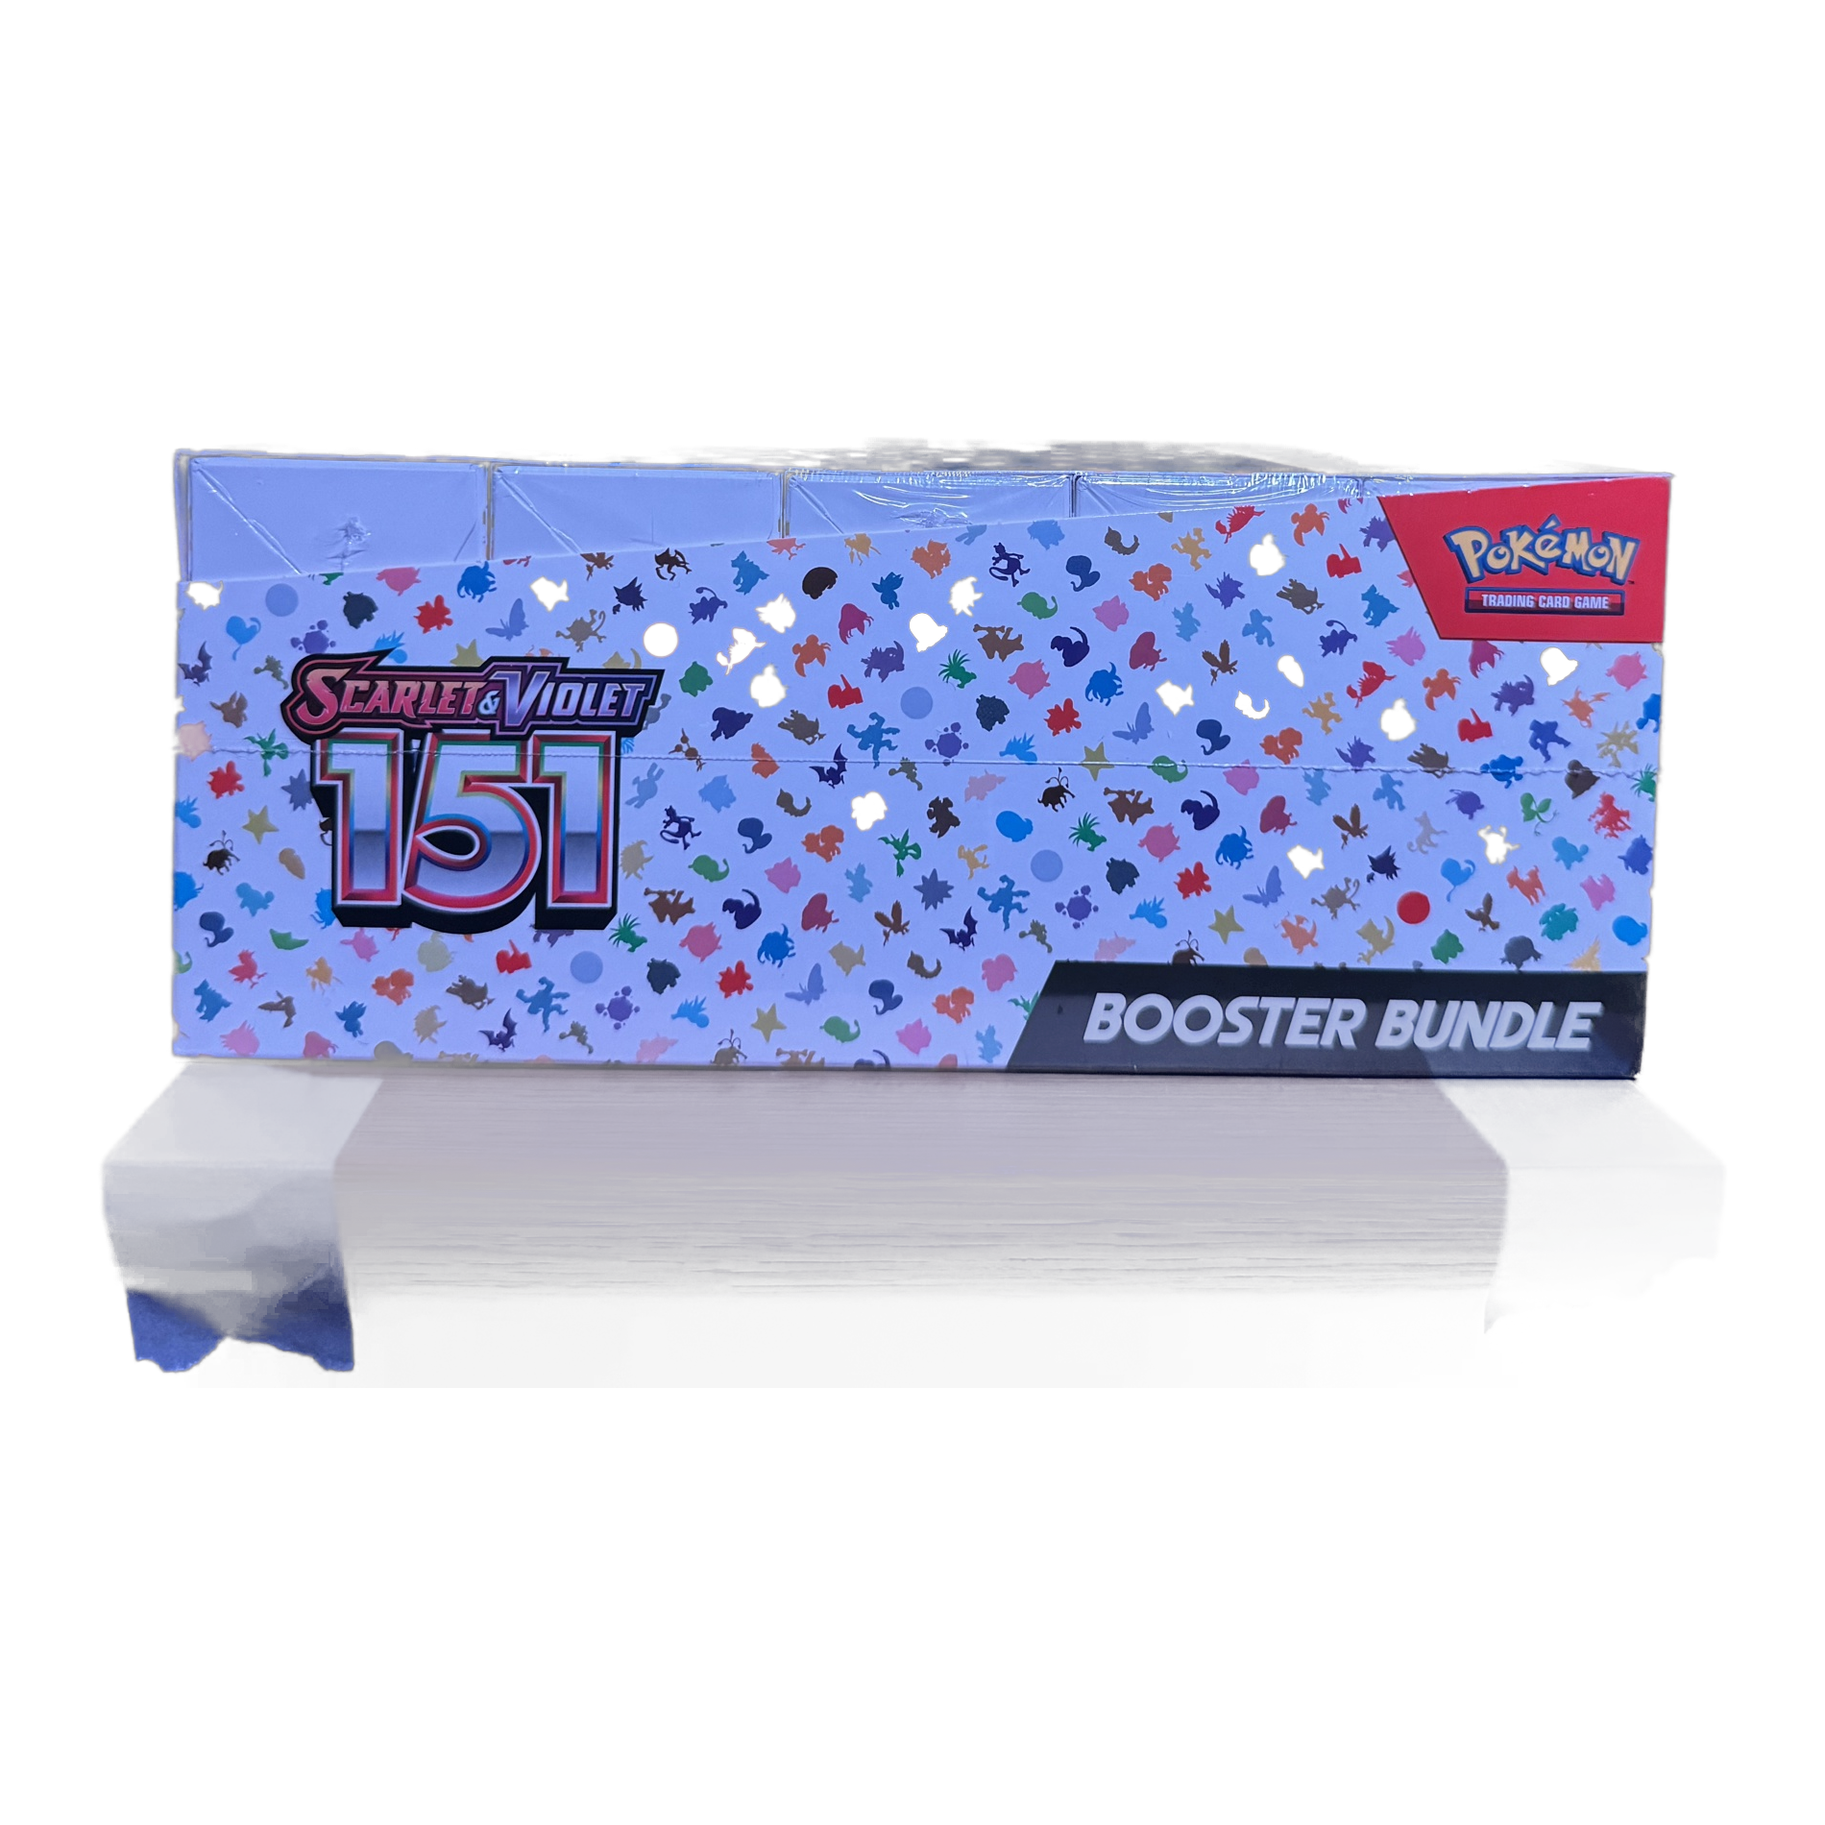
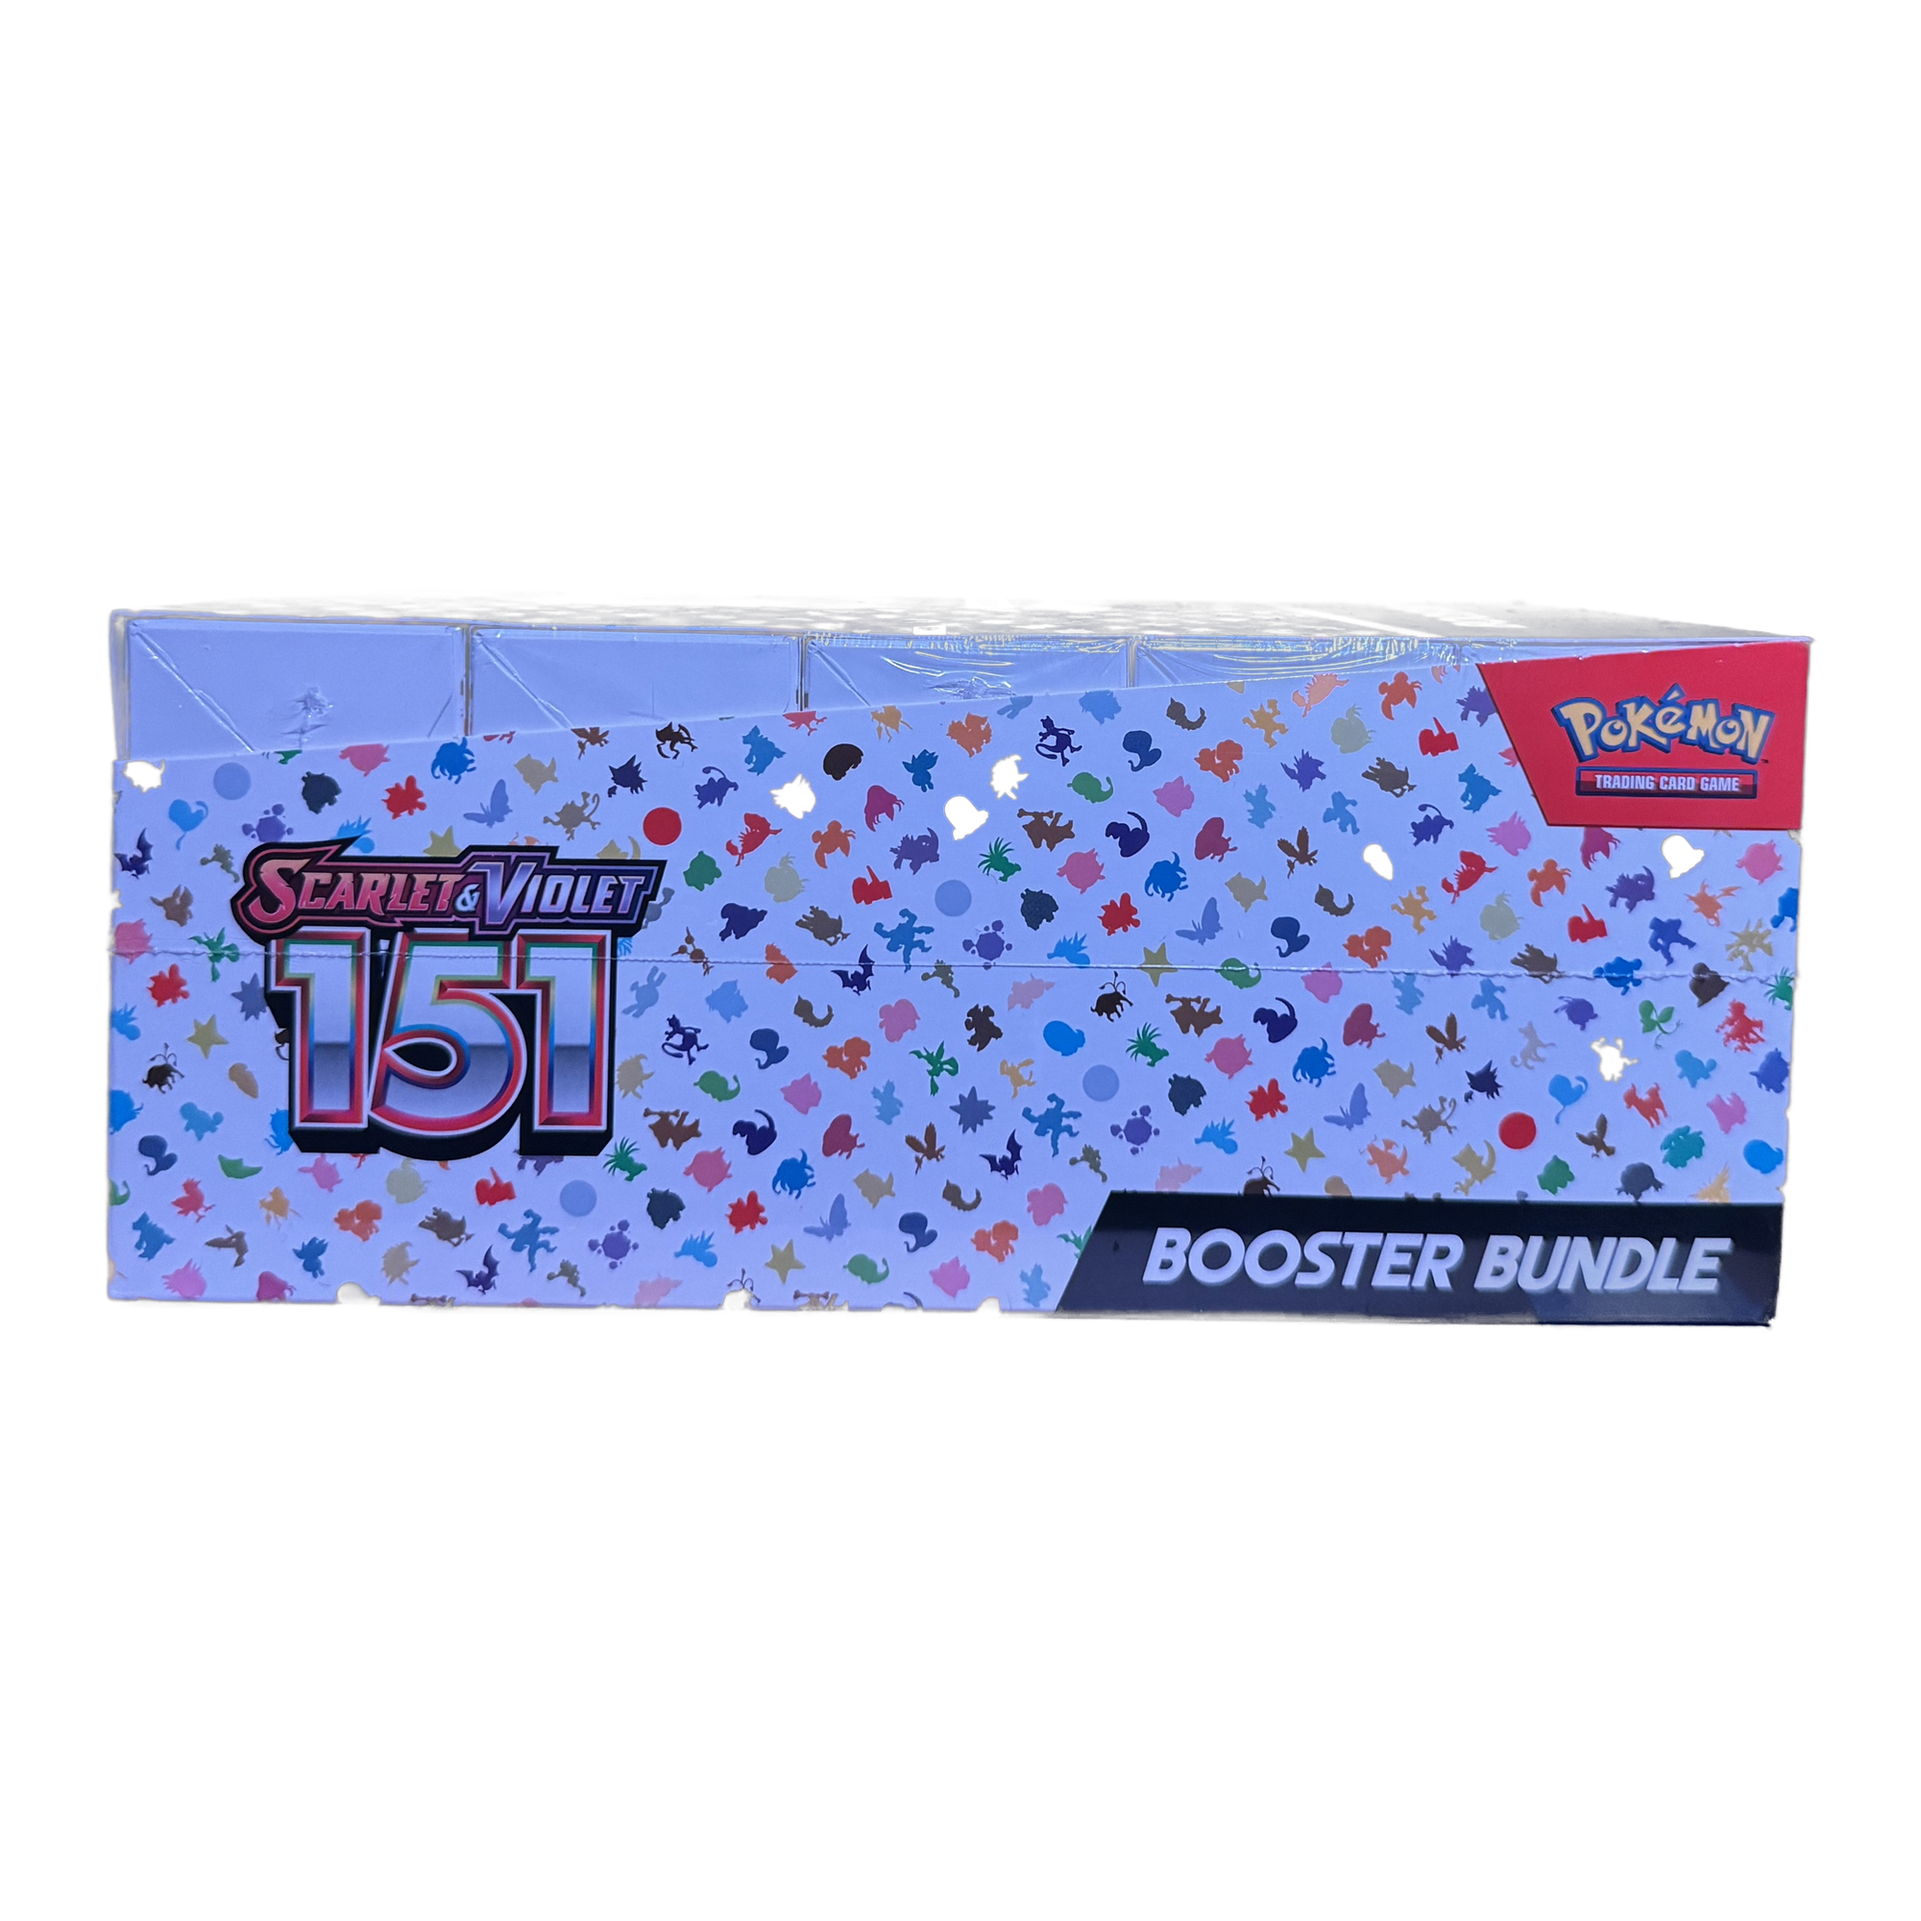
De tafelrand onder de doos wegsnijden
Bram zet de doos op de rand van zijn tafel en plakt hem vast met
schilderstape. Bij een liggende doos pakte rembg die tafelrand mee: in het
sjabloon stond de doos dan op een plak hout met twee stukken tape eraan.

Wat het verraadt is niet de helderheid en niet de kleur. Ik heb ze allebei
gemeten en ze scheiden een witte doos niet van licht hout; de foto's zijn
bovendien koel geschoten, zodat zelfs het hout blauwer uitvalt dan rood. Wat
wel scheidt is de breedte, en dan andersom dan je zou denken: het tafelblad
steekt zijwaarts buiten de doos uit. Bij het 151-display zit de doos op 0,99
tot 1,00 van zijn kernbreedte en loopt het masker vanaf de tafel op naar 1,03,
om bij de voorrand terug te zakken naar 0,94 en bij de tape naar 0,15.

Alleen op verbreding snijden, nooit op versmalling. Dat is een hard geleerde
les: de eerste versie sneed ook bij afwijking naar beneden en knipte 736 van
de 1635 rijen van de staande doos af. Een staande doos loopt door perspectief
taps toe en zit onderaan op 0,96 van zijn kernbreedte.

Gemeten na afloop: het liggende display 964 naar 703 rijen, de staande doos
onveranderd op 1635.

Onderweg ook nagekeken of de blauwzweem uit mijn omzetting kwam. Dat is niet
zo: de HEIC draagt een Display P3-profiel, maar netjes naar sRGB omzetten
verschuift R-B van -97 naar -109 en maakt het dus niet beter. De opname is zo
geschoten.

Claude-Session: https://claude.ai/code/session_01WAr9BuuVNs3MhH58LKB4bC

diff --git a/brams-collectibles/sjablonen/uitsnijden.py b/brams-collectibles/sjablonen/uitsnijden.py
@@ -215,6 +215,58 @@ def gaten_vullen(m):
     return (~buiten).astype(np.uint8)
 
 
+def voetstuk_weg(a, speling=0.012, houvast=0.03):
+    """De tafelrand onder de doos wegsnijden.
+
+    Bram zet de doos op de rand van zijn tafel en plakt hem vast met
+    schilderstape. Bij een liggende doos pakt rembg die tafelrand mee: in het
+    sjabloon staat de doos dan op een plak hout met twee stukken tape eraan.
+
+    Het signaal is niet de helderheid en niet de kleur — ik heb ze allebei
+    gemeten en ze scheiden een witte doos niet van licht hout. Wat wel
+    scheidt is de breedte, maar dan andersom dan je zou denken: het tafelblad
+    steekt zijwaarts *buiten* de doos uit. Bij het 151-display zit de doos op
+    0,99 tot 1,00 van zijn kernbreedte en loopt het masker vanaf de tafel op
+    naar 1,03, om bij de voorrand terug te zakken naar 0,94 en bij de tape
+    naar 0,15.
+
+    We snijden daarom alleen op *verbreding*, nooit op versmalling. Dat is een
+    hard geleerde les: de eerste versie sneed ook bij afwijking naar beneden,
+    en knipte 736 van de 1635 rijen van de staande doos af. Een staande doos
+    loopt door perspectief taps toe en zit onderaan op 0,96 van zijn
+    kernbreedte — met een marge van een procent is dat meteen raak. Naar boven
+    afwijken doet alleen de tafel.
+
+    De tape en de voorrand van de tafel zijn juist smaller, maar die zitten
+    onder de verbreding, dus die gaan mee.
+    """
+    m = a > 128
+    if not m.any():
+        return a
+    breed = m.sum(axis=1)
+    rijen = np.nonzero(breed > 0)[0]
+    top, onder = rijen[0], rijen[-1]
+    hoog = onder - top + 1
+    if hoog < 50:
+        return a
+
+    kern = np.median(breed[top + int(hoog * 0.10):top + int(hoog * 0.60)])
+    if kern <= 0:
+        return a
+
+    vast = max(3, int(hoog * houvast))
+    begin = top + int(hoog * 0.55)
+    for y in range(begin, onder - vast):
+        blok = breed[y:y + vast] / kern
+        if np.all(blok > 1 + speling):
+            if (onder - y) < hoog * 0.04:         # te weinig om tafel te zijn
+                return a
+            uit = a.copy()
+            uit[y:] = 0
+            return uit
+    return a
+
+
 def bijsnijden(rgba):
     """Twee uitvoeren van dezelfde uitsnede.
 
@@ -248,6 +300,10 @@ def verwerk(pad):
 
     try:
         a, hoe = masker_dubbelslag(im)
+        gesneden = voetstuk_weg(a)
+        if not np.array_equal(gesneden, a):
+            hoe += ', voetstuk weg'
+            a = gesneden
     except Exception as e:
         print(f'   rembg niet gebruikt ({e.__class__.__name__}), terugval', file=sys.stderr)
         a = masker_terugval(im)
